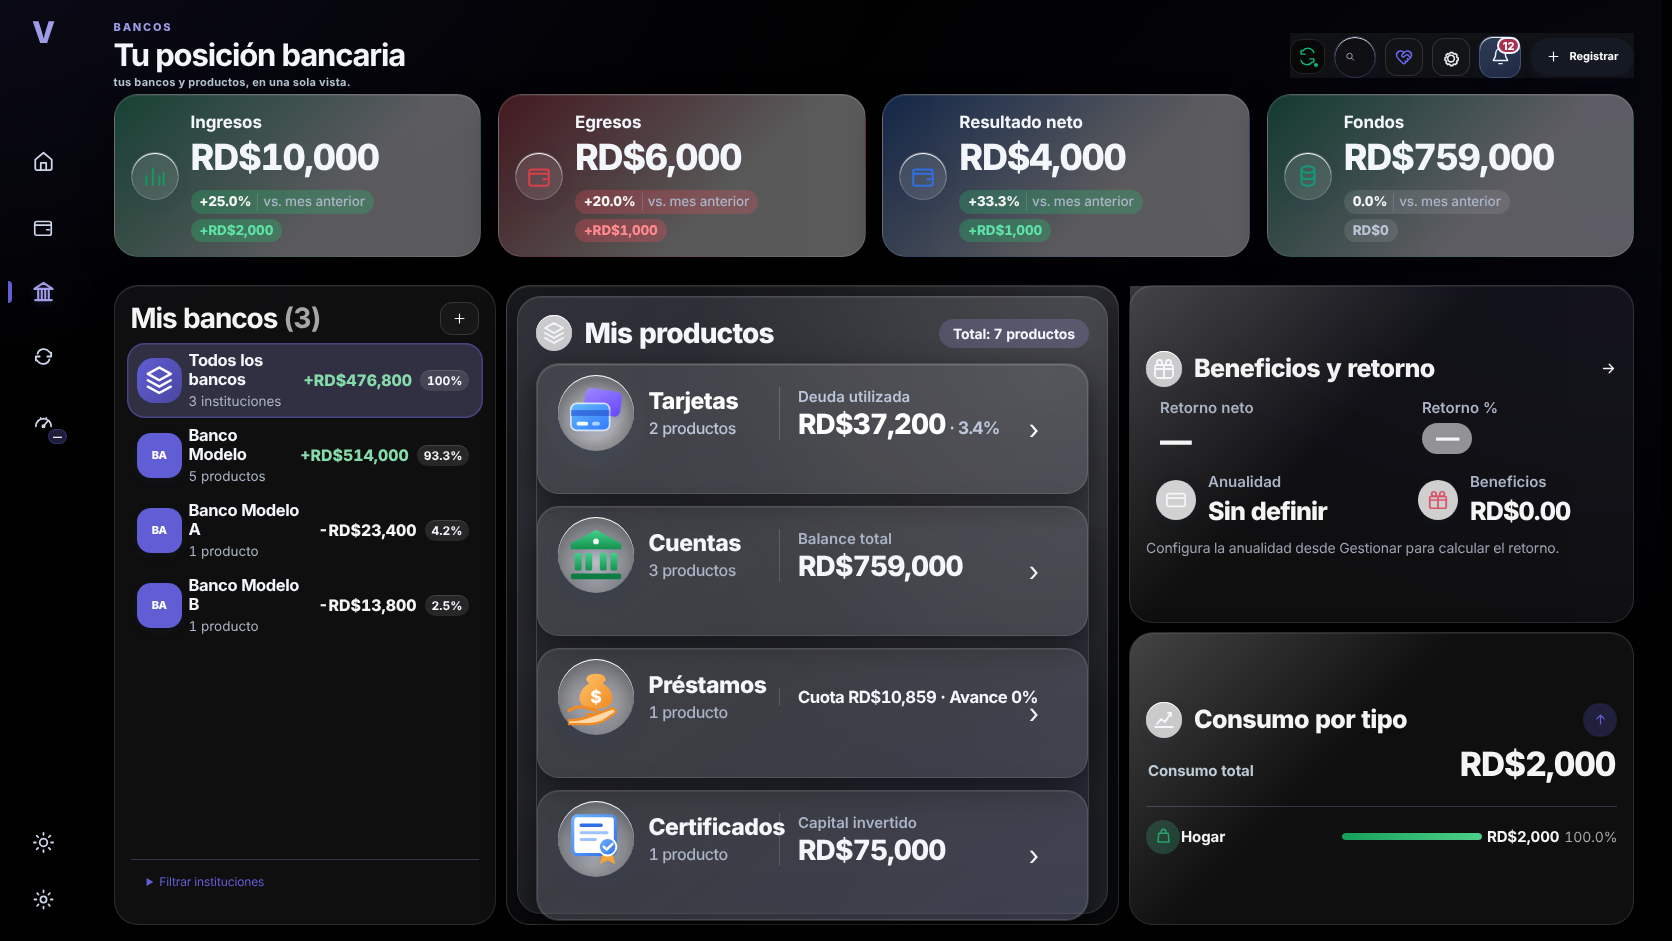
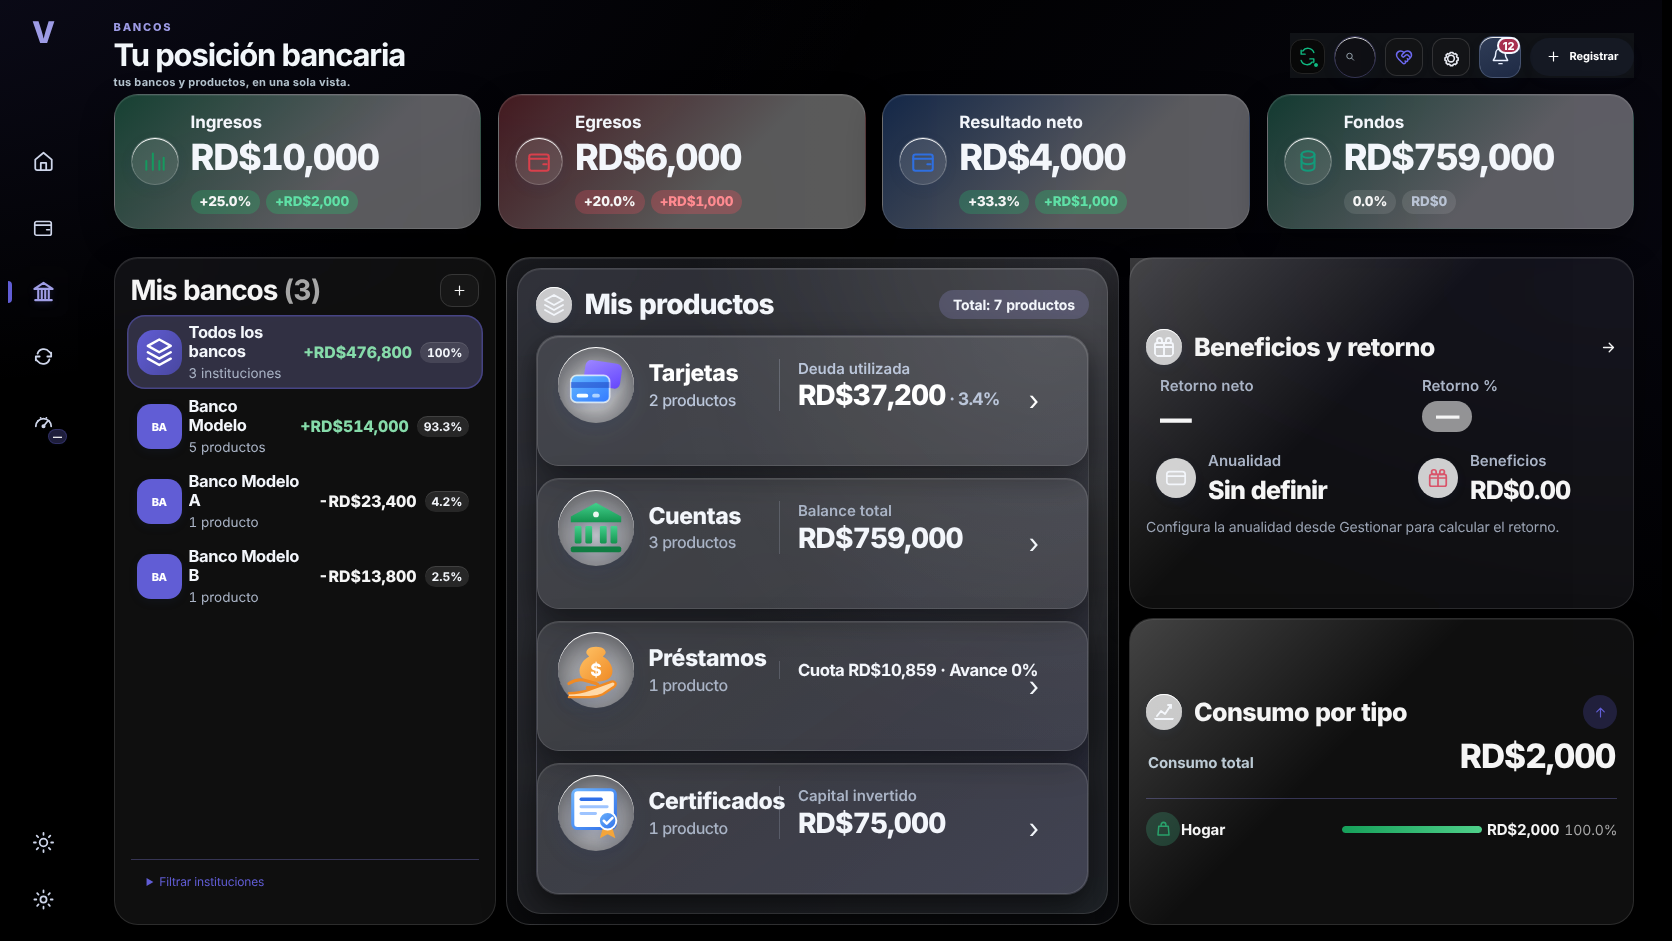
Bancos PC: variación absoluta en la misma fila que el porcentaje (arriba, no debajo)
Claude-Session: https://claude.ai/code/session_01AwzF8JXGCqasa7rHAy2PHn

diff --git a/src/bancos-pc-glass.css b/src/bancos-pc-glass.css
@@ -249,7 +249,8 @@
  html body #app#app#app main.vBanksPc-world>.topbar{padding-bottom:10px!important;margin-bottom:18px!important}
  html body #app#app#app main.vBanksPc-world>.topbar .top-sub{line-height:1.4!important;margin-top:4px!important}
 }
-/* Si la tarjeta es angosta: las dos cápsulas se apilan SIEMPRE, en las cuatro por igual */
+/* Siempre en una sola fila (porcentaje + variación absoluta). Si no cabe, se quita «vs. mes anterior» en las cuatro por igual. */
 @container (max-width:470px){
- html body #app#app#app main.vBanksPc-world #page#page .vBanksPc-var-row{flex-direction:column!important;align-items:flex-start!important;gap:5px!important}
+ html body #app#app#app main.vBanksPc-world #page#page .vBanksPc-var i{display:none!important}
+ html body #app#app#app main.vBanksPc-world #page#page .vBanksPc-var-row{flex-direction:row!important;flex-wrap:nowrap!important}
 }

diff --git a/index.html b/index.html
@@ -31,7 +31,7 @@
 <link rel="stylesheet" href="./src/vive-score/host.css?v=8"/>
 <link rel="stylesheet" href="./src/dynamic-appearance.css?v=10"/>
 <link rel="stylesheet" href="./src/desktop-legibility.css?v=18"/>
-<link rel="stylesheet" href="./src/bancos-pc-glass.css?v=21" media="(min-width: 791px)"/>
+<link rel="stylesheet" href="./src/bancos-pc-glass.css?v=22" media="(min-width: 791px)"/>
 <link rel="stylesheet" href="./src/banks-mobile-legibility.css?v=3" media="(max-width: 790px)"/>
 <link rel="stylesheet" href="./src/banks-mobile-glass.css?v=6" media="(max-width: 790px)"/>
 <link rel="stylesheet" href="./src/wallet-glass.css?v=7"/>
